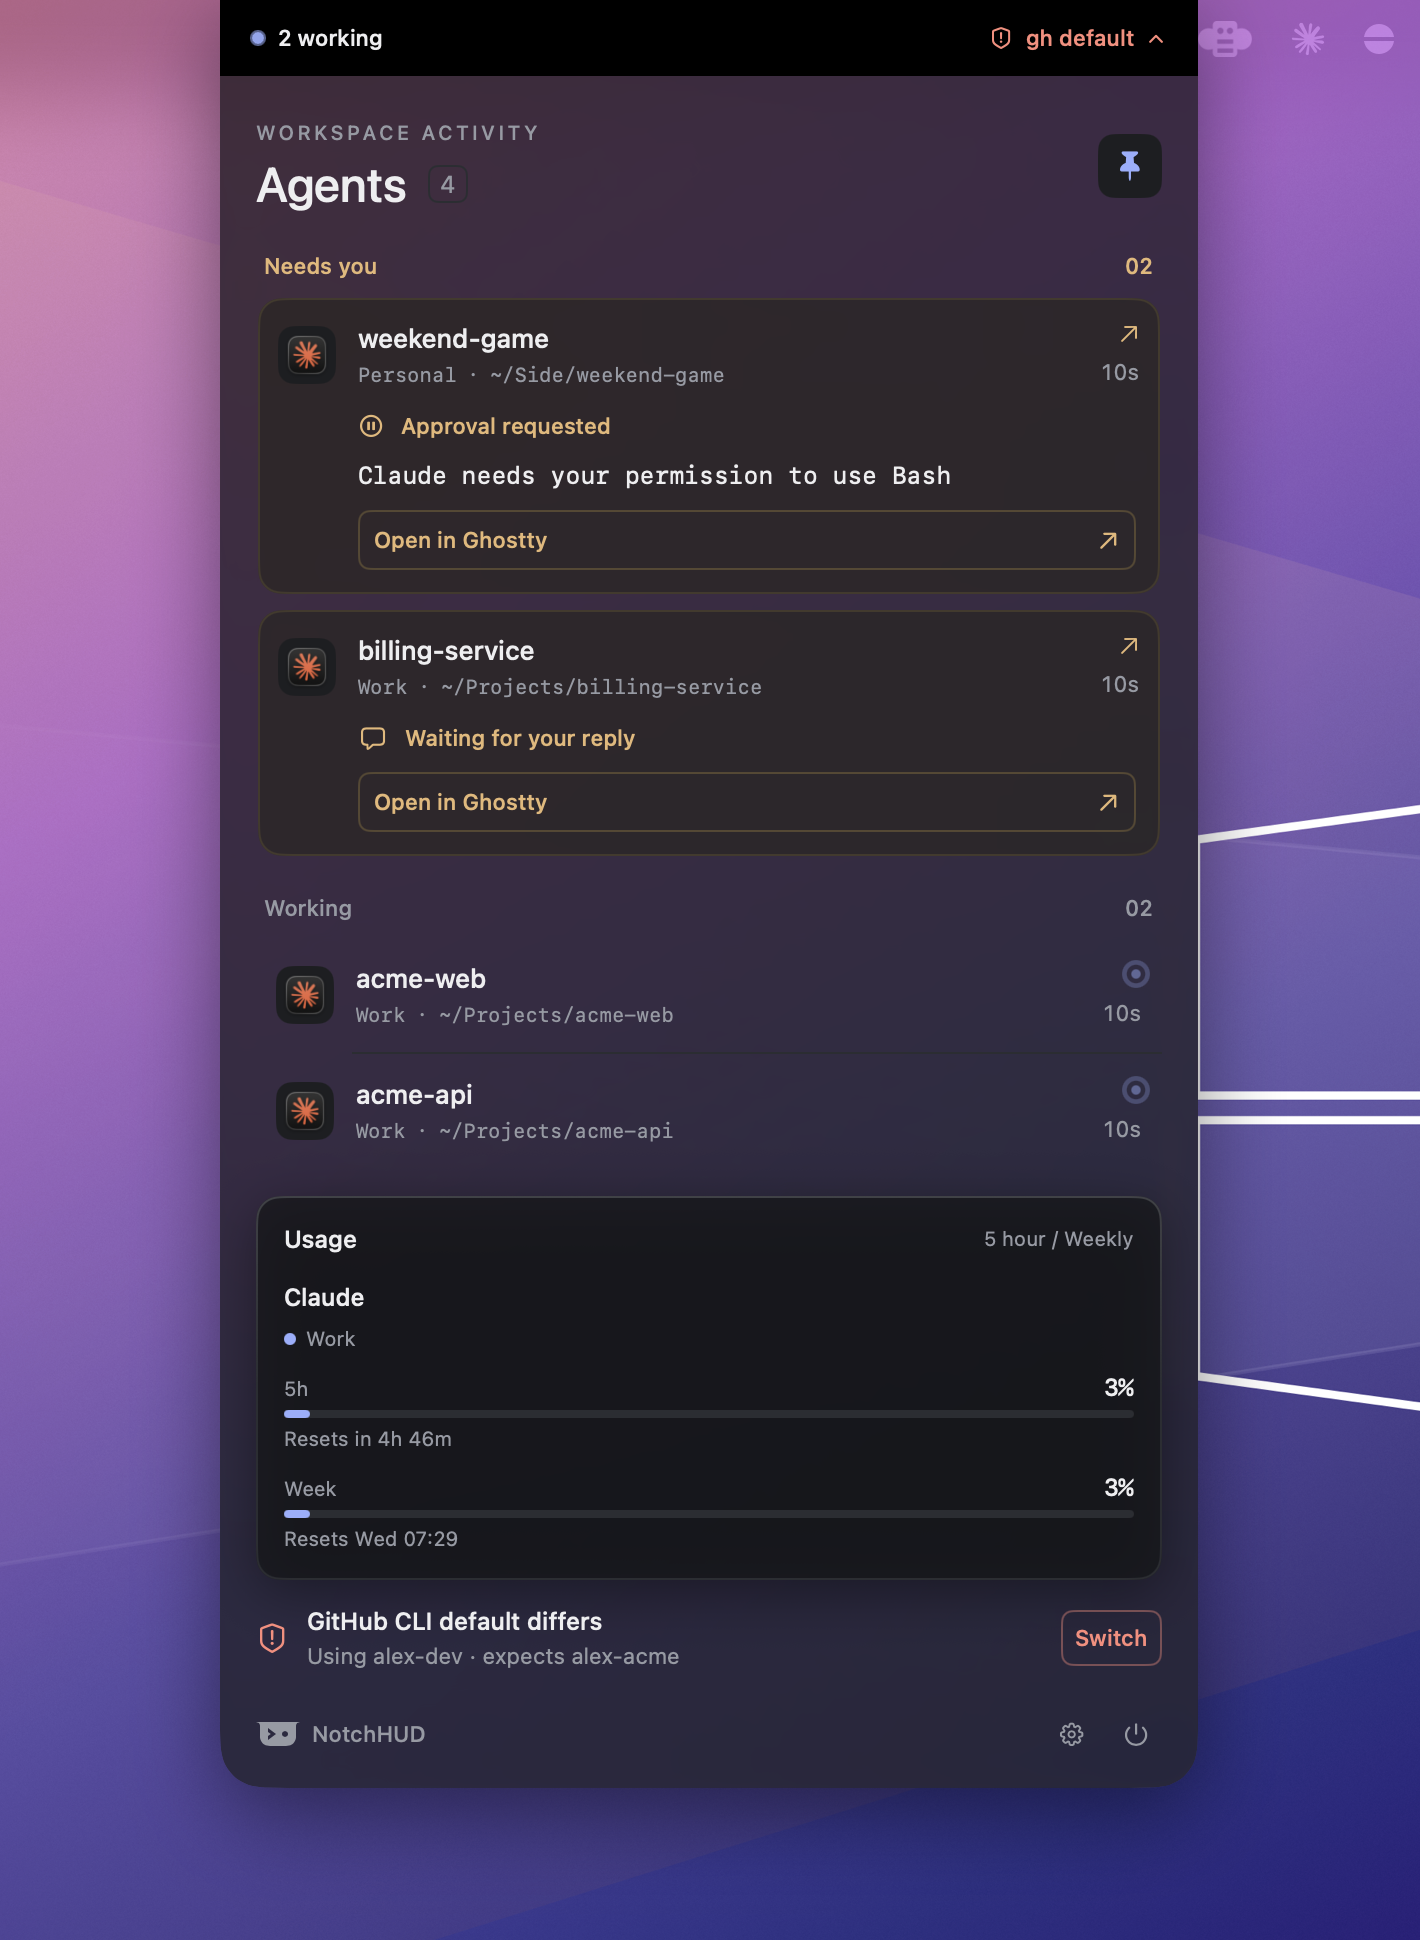
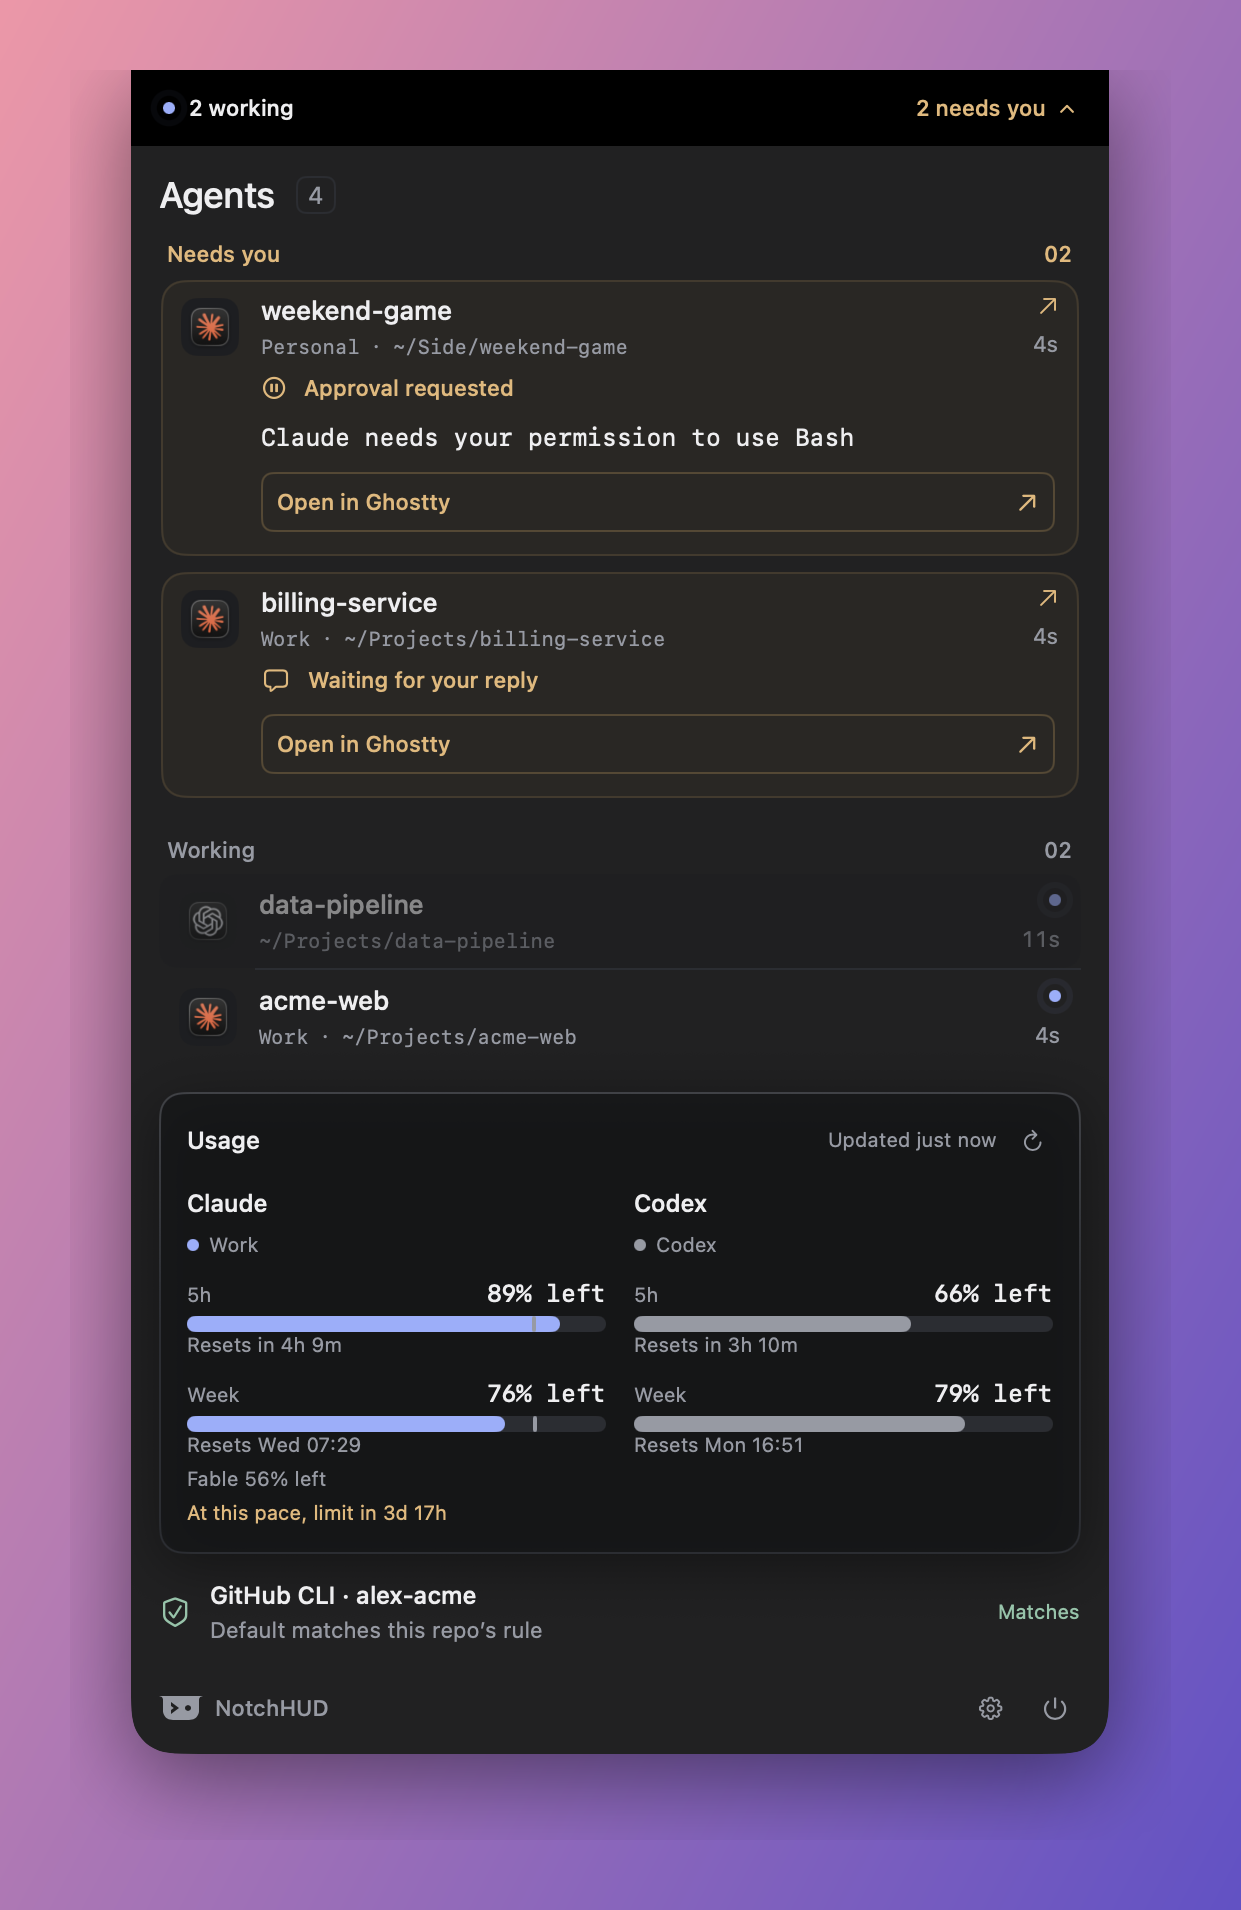
README: new blurb, refreshed panel screenshot, warm-up screenshot

diff --git a/README.md b/README.md
@@ -7,7 +7,8 @@
 <p align="center">
   Your coding agents, at the top of the screen.<br>
   A tiny macOS HUD around the notch that shows which <b>Claude Code</b> and <b>Codex</b> sessions are working,
-  which need you, and how much of each subscription's quota is left.
+  which need you, and how much of each subscription's quota is left, with the pace you are burning it at,
+  alerts before you hit a limit, and a scheduler that starts your 5-hour window before you sit down.
 </p>
 
 <p align="center">
@@ -17,7 +18,7 @@
 </p>
 
 <p align="center">
-  <img src="docs/screenshots/panel.png" width="520" alt="The expanded panel: sessions that need you, working sessions, usage per subscription, and the GitHub account guard">
+  <img src="docs/screenshots/panel.png" width="520" alt="The expanded panel: sessions that need you, working sessions, Claude and Codex usage with pace marks, and the GitHub account guard">
 </p>
 
 ## What it does
@@ -72,6 +73,10 @@ Open Settings from the gear icon in the panel footer or with `open notchhud://se
 - **Subscriptions** — the logins you own. Rename each in your own words, pick a lane color, hide a lane without deleting it, remove accounts you no longer use. Logins the HUD has seen but you have not named appear under *Seen on this Mac* with a one-click *Name it*. Codex is listed once it is detected.
 - **Rules** — folder and GitHub-owner rules, each with an expected subscription and an expected `gh` account. Owner rules beat folder rules, and among folders the longest match wins. Folders come from a picker or from suggestions based on where your sessions actually run.
 - **Advanced** — hook status with a one-click installer, Accessibility status, a switch for exact usage from Anthropic's API (reads the token Claude Code keeps in the Keychain; off means estimates only and no Keychain access), the default terminal, the Codex app bundle id, and the relay port.
+
+<p align="center">
+  <img src="docs/screenshots/warmup.png" width="720" alt="The window warm-up schedule in Settings next to the panel with Claude and Codex usage">
+</p>
 
 <p align="center">
   <img src="docs/screenshots/panel-minimal.png" width="520" alt="Minimal density: one line per session">
